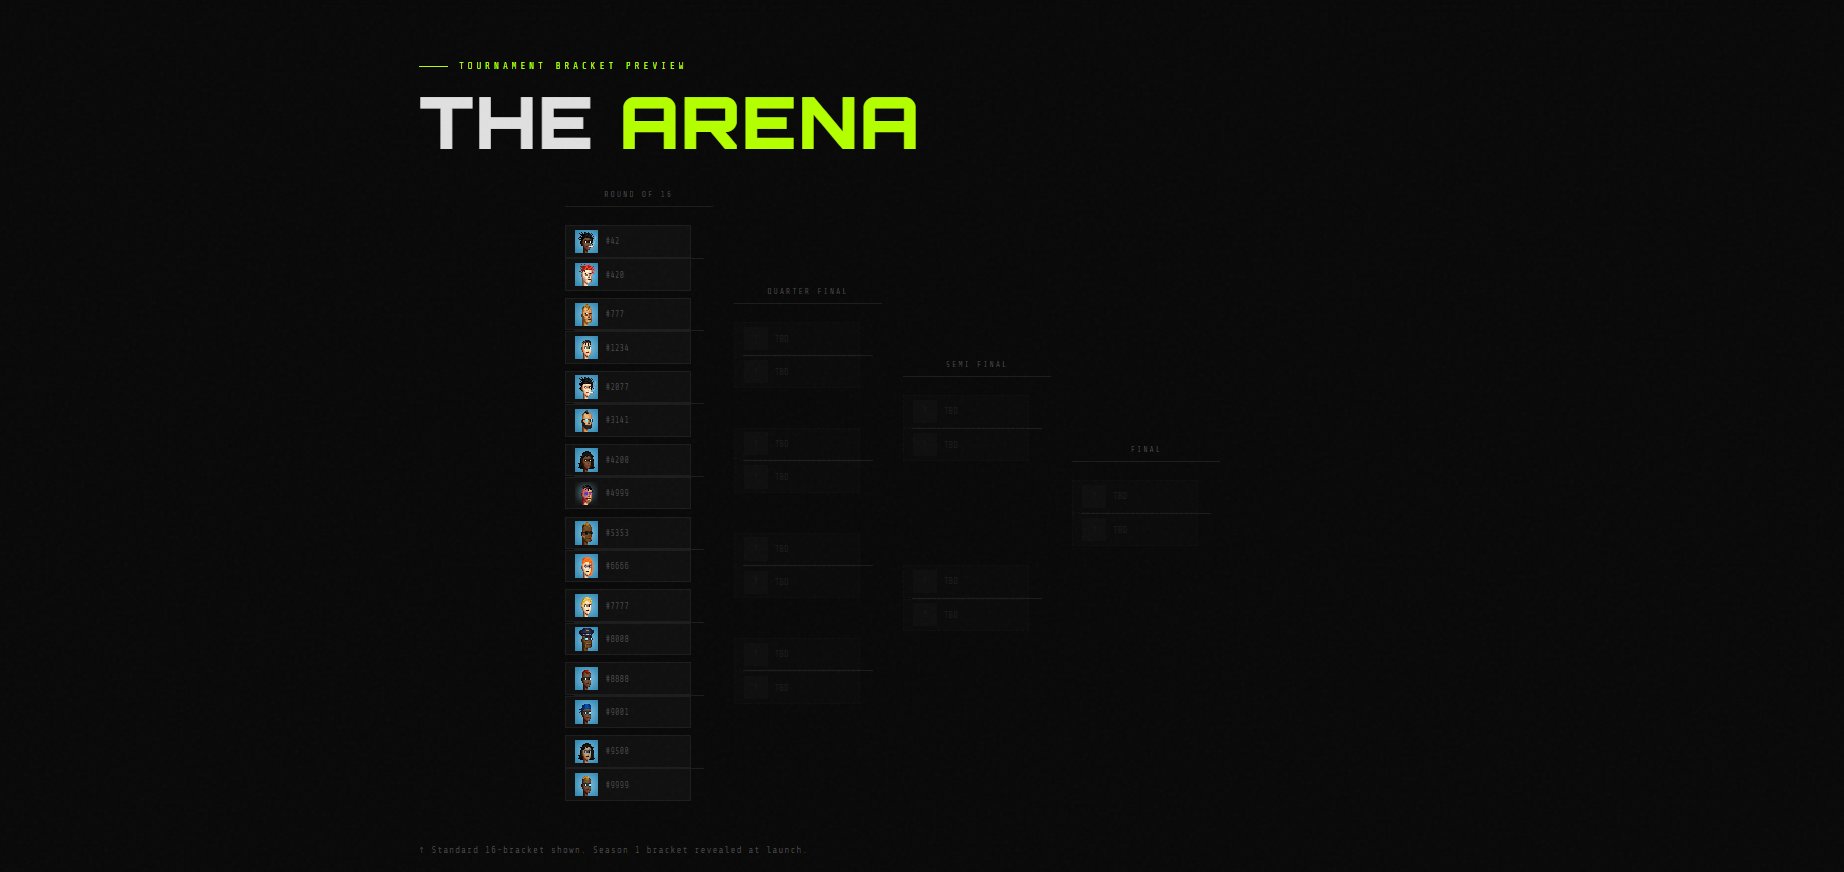
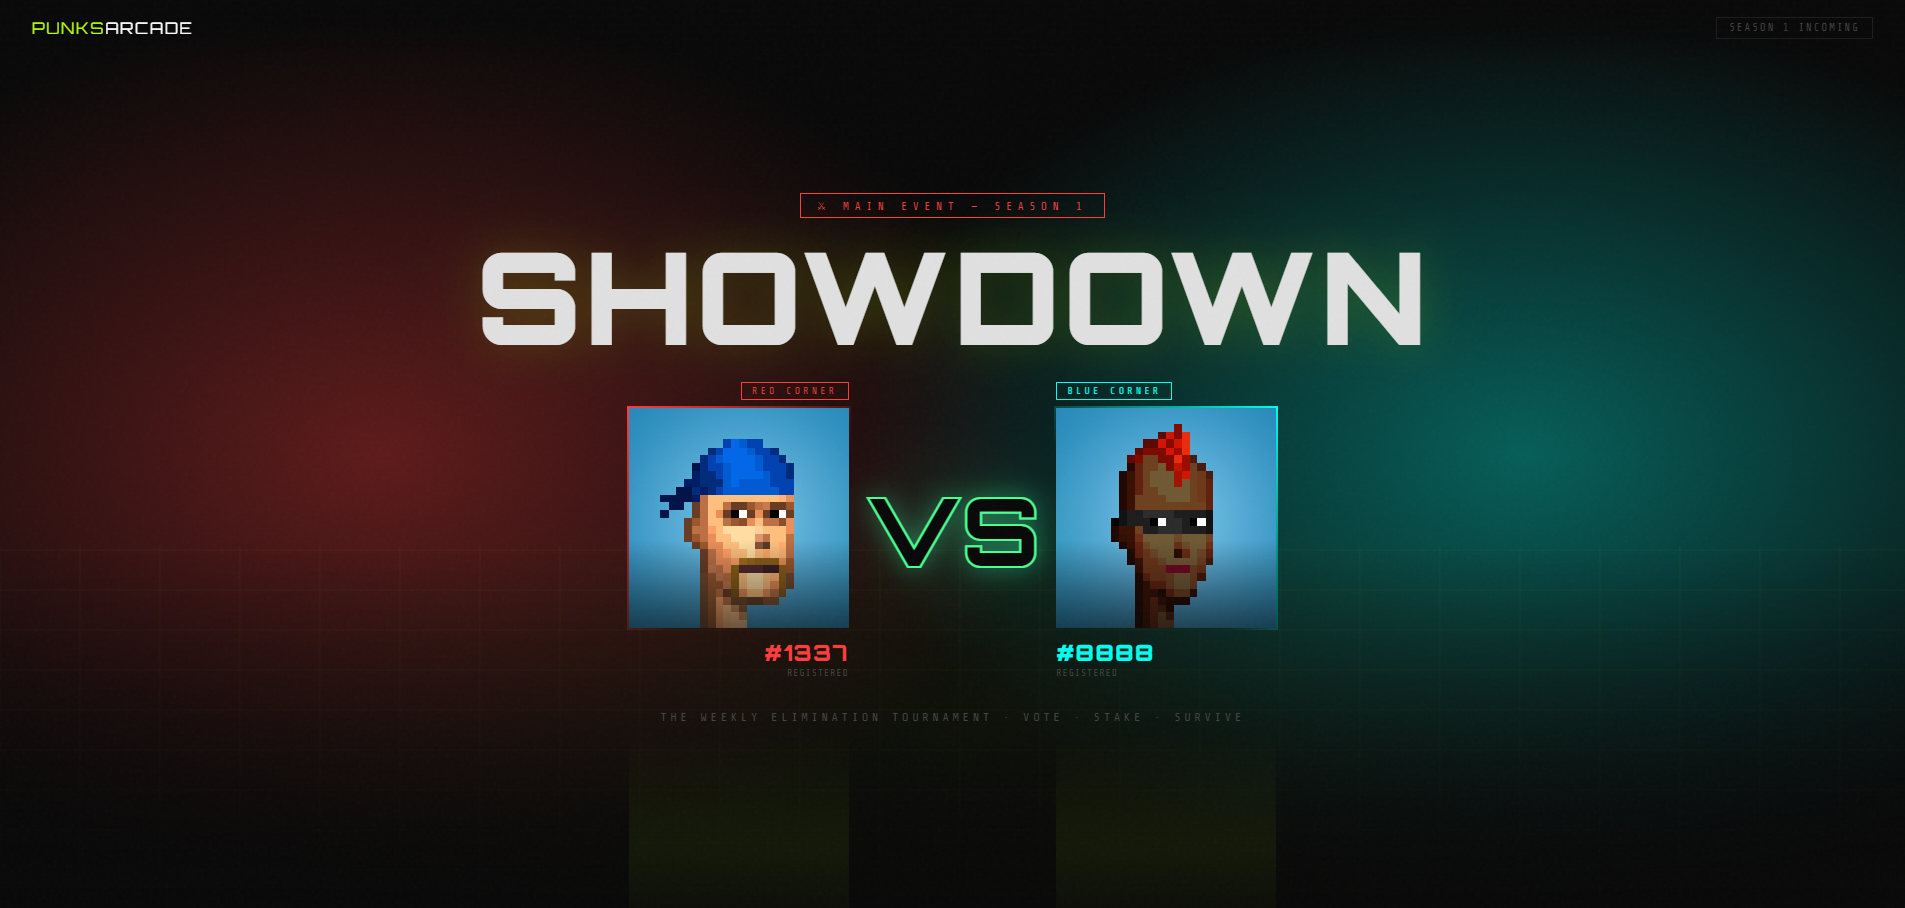
Cleaned up and fixed errors

diff --git a/index.html b/index.html
@@ -12,7 +12,7 @@
 
   <link rel="preconnect" href="https://fonts.googleapis.com" />
   <link rel="preconnect" href="https://fonts.gstatic.com" crossorigin />
-  <link href="https://fonts.googleapis.com/css2?family=Space+Grotesk:wght@300;400;500;600;700&family=Space+Mono:wght@400;700&family=Chakra+Petch:ital,wght@0,300;0,400;0,500;0,600;0,700;1,300;1,400;1,500;1,600;1,700&display=swap" rel="stylesheet" />
+  <link href="https://fonts.googleapis.com/css2?family=DM+Mono:ital,wght@0,300;0,400;0,500;1,300;1,400;1,500&family=Chakra+Petch:ital,wght@0,300;0,400;0,500;0,600;0,700;1,300;1,400;1,500;1,600;1,700&display=swap" rel="stylesheet" />
   <link rel="stylesheet" href="https://cdnjs.cloudflare.com/ajax/libs/font-awesome/6.5.0/css/all.min.css" />
   <script src="https://cdnjs.cloudflare.com/ajax/libs/gsap/3.12.5/gsap.min.js"></script>
   <script src="https://cdnjs.cloudflare.com/ajax/libs/gsap/3.12.5/ScrollTrigger.min.js"></script>
@@ -29,8 +29,8 @@
       --prime:    #EBF0F9;
       --border:   rgba(255,255,255,0.055);
       --border-g: rgba(180,255,0,0.14);
-      --fb:       'Space Grotesk', system-ui, sans-serif;
-      --fm:       'Space Mono', monospace;
+      --fb:       'Chakra Petch', system-ui, sans-serif;
+      --fm:       'DM Mono', monospace;
       --fd:       'Chakra Petch', sans-serif;
     }
 
@@ -158,10 +158,10 @@
       position: relative; z-index: 1;
     }
     .hero-grid {
-      display: grid;
-      grid-template-columns: 1.15fr 0.85fr;
-      gap: clamp(3rem,6vw,6rem);
-      align-items: center;
+        display: grid;
+        grid-template-columns: 1.1fr 0.9fr;
+        gap: clamp(1rem,2vw,2rem);
+        align-items: center;
     }
     @media (max-width: 960px) {
       .hero-grid { grid-template-columns: 1fr; }
@@ -181,14 +181,17 @@
       background: var(--green); flex-shrink: 0;
     }
 
-    h1.h-head {
-      font-family: var(--fd);
-      font-size: clamp(2.8rem, 5.5vw, 5.2rem);
-      font-weight: 800; line-height: 1.03;
-      letter-spacing: -0.035em; color: var(--prime);
-      margin-bottom: 1.75rem;
-      opacity: 0; transform: translateY(30px);
-    }
+h1.h-head {
+    font-family: var(--fd);
+    font-size: clamp(2.5rem, 4.5vw, 4.2rem);
+    font-weight: 800;
+    line-height: 1.03;
+    letter-spacing: -0.035em;
+    color: var(--prime);
+    margin-bottom: 1.75rem;
+    opacity: 0;
+    transform: translateY(30px);
+}
     h1.h-head em { font-style: normal; color: var(--green); }
 
     .h-sub {
@@ -231,10 +234,33 @@
     }
     .h-trust-item strong { color: var(--muted); font-weight: 400; }
 
+    .avail-badge {
+      display: inline-flex;
+      align-items: center;
+      gap: 0.5rem;
+      padding: 0.38rem 0.9rem;
+      border: 1px solid rgba(180,255,0,0.22);
+      background: rgba(180,255,0,0.04);
+      margin-bottom: 2.75rem;
+      width: fit-content;
+    }
+    .avail-dot {
+      width: 6px; height: 6px; border-radius: 50%;
+      background: var(--green);
+      animation: blink 2s ease-in-out infinite;
+    }
+    .avail-text {
+      font-family: var(--fm);
+      font-size: 0.58rem;
+      letter-spacing: 0.14em;
+      text-transform: uppercase;
+      color: var(--green);
+    }
+
     /* Hero visual rotator */
     .hero-right { opacity: 0; transform: translateY(20px); }
     .hero-visual {
-      position: relative; aspect-ratio: 4/3;
+      position: relative; aspect-ratio: 5/3;
       overflow: hidden; border: 1px solid var(--border);
       background: var(--surface);
     }
@@ -451,15 +477,23 @@
     }
     .cs-tag.tag-sec { border-color: rgba(180,255,0,0.15); color: rgba(180,255,0,0.6); }
 
-    .cs-img-main {
-      flex: 1; min-height: 0; overflow: hidden;
-      border: 1px solid var(--border); position: relative;
-      background: var(--bg); cursor: pointer;
-    }
-    .cs-img-main img {
-      width: 100%; height: 100%; object-fit: cover; display: block;
-      filter: brightness(0.88); transition: filter 0.3s;
-    }
+.cs-img-main {
+    /* flex: 1; */
+    min-height: 0;
+    overflow: hidden;
+    border: 1px solid var(--border);
+    position: relative;
+    background: var(--bg);
+    cursor: pointer;
+}
+.cs-img-main img {
+    width: 100%;
+    height: 100%;
+    object-fit: contain;
+    display: block;
+    filter: brightness(0.88);
+    transition: filter 0.3s;
+}
     .cs-img-main:hover img { filter: brightness(1); }
     .cs-img-overlay {
       position: absolute; inset: 0;
@@ -469,11 +503,14 @@
     .cs-img-main:hover .cs-img-overlay { opacity: 1; }
     .cs-img-overlay i { color: var(--green); font-size: 1.3rem; }
 
-    .cs-thumbs { display: grid; grid-template-columns: repeat(3,1fr); gap: 0.4rem; }
-    .cs-thumb-sm {
-      height: 66px; overflow: hidden; border: 1px solid var(--border);
-      cursor: pointer; background: var(--bg);
-    }
+    .cs-thumbs { display: grid; grid-template-columns: repeat(2,1fr); gap: 0.4rem; }
+.cs-thumb-sm {
+    height: 175px;
+    overflow: hidden;
+    border: 1px solid var(--border);
+    cursor: pointer;
+    background: var(--bg);
+}
     .cs-thumb-sm img {
       width: 100%; height: 100%; object-fit: cover; display: block;
       filter: brightness(0.72) grayscale(15%); transition: filter 0.2s;
@@ -589,15 +626,39 @@
 
     /* ─── ABOUT ──────────────────────────── */
     #about { background: var(--s2); }
-    .about-grid {
-      display: grid; grid-template-columns: 1fr 1fr;
-      gap: clamp(3rem,6vw,5.5rem); align-items: start;
-    }
+.about-grid {
+    display: grid;
+    grid-template-columns: 2fr 1fr;
+    gap: clamp(3rem,6vw,5.5rem);
+    align-items: start;
+}
     @media (max-width: 768px) { .about-grid { grid-template-columns: 1fr; } }
 
     .about-body { font-size: 0.96rem; line-height: 1.82; color: var(--muted); }
     .about-body strong { color: var(--prime); font-weight: 600; }
     .about-body p + p { margin-top: 1.1rem; }
+
+    .testimonial-block {
+      margin-top: 3rem;
+      padding: 1.5rem 1.75rem;
+      background: rgba(180,255,0,0.025);
+      border: 1px solid rgba(180,255,0,0.09);
+      border-left: 2px solid var(--green);
+      max-width: 640px;
+    }
+    .t-quote {
+      font-size: 0.95rem;
+      line-height: 1.82;
+      color: var(--prime);
+      font-style: italic;
+      margin-bottom: 0.65rem;
+    }
+    .t-attr {
+      font-family: var(--fm);
+      font-size: 0.54rem;
+      letter-spacing: 0.1em;
+      color: var(--green);
+    }
 
     .about-links { display: flex; gap: 0.5rem; flex-wrap: wrap; margin-top: 1.75rem; }
     .about-link {
@@ -749,7 +810,7 @@
     <a href="#services"  class="hide-sm">Services</a>
     <a href="#resources" class="hide-xs">Resources</a>
     <a href="#contact">Contact</a>
-    <a href="https://calendly.com/chris-dbuilder/30min" target="_blank" rel="noopener" class="nav-cta">Book a Call</a>
+    <a href="https://calendly.com/chrisnwasike/30min" target="_blank" rel="noopener" class="nav-cta">Book a Call</a>
   </div>
 </nav>
 
@@ -769,14 +830,13 @@
 
           <h1 class="h-head">
             After all the hype,<br/>
-            <em>your community still<br/>
+            <em>your community still
             needs infrastructure.</em>
           </h1>
 
           <p class="h-sub">
             Your web3 community needs infrastructure to sustain it after the initial excitement fades. 
-            I design and build the systems that keep communities active, engaged, and 
-            economically healthy long after the mint spike fades.
+            Let's create the systems that'll keep it active long after the mint and airdrop.
           </p>
 
           <div class="h-actions">
@@ -784,9 +844,14 @@
               View Case Studies
               <i class="fa-solid fa-arrow-right fa-sm"></i>
             </a>
-            <a href="https://calendly.com/chris-dbuilder/30min" target="_blank" rel="noopener" class="btn-g">
+            <a href="https://calendly.com/chrisnwasike/30min" target="_blank" rel="noopener" class="btn-g">
               Book a Strategy Call
             </a>
+          </div>
+
+          <div class="avail-badge">
+            <span class="avail-dot"></span>
+            <span class="avail-text">Available for hire - Q2 2026</span>
           </div>
 
           <div class="h-trust">
@@ -898,7 +963,7 @@
                 <span class="cs-idx">01 / 09</span>
                 <span class="cs-badge badge-build">Alpha · Aug 2026</span>
               </div>
-              <h3 class="cs-title">PunkHam<br/>Mayhem S1</h3>
+              <h3 class="cs-title">PunkHam Mayhem S1</h3>
               <p class="cs-type">Participation Economy · Season System · Browser-Native · Base</p>
               <div class="cs-ps-row">
                 <div class="cs-ps-block">
@@ -948,7 +1013,7 @@
                 <span class="cs-idx">02 / 09</span>
                 <span class="cs-badge badge-live">Live</span>
               </div>
-              <h3 class="cs-title">Punk<br/>Arcade</h3>
+              <h3 class="cs-title">Punk Arcade</h3>
               <p class="cs-type">Automated Game Platform · Zero-Admin Operations · Two Live Games · Base</p>
               <div class="cs-ps-row">
                 <div class="cs-ps-block">
@@ -998,7 +1063,7 @@
                 <span class="cs-idx">03 / 09</span>
                 <span class="cs-badge badge-live">Live · Beta</span>
               </div>
-              <h3 class="cs-title">BTFD<br/>Rabbits</h3>
+              <h3 class="cs-title">BTFD Rabbits</h3>
               <p class="cs-type">Holder Retention Platform · Closed Currency Economy · Anti-Churn Mechanics · Ethereum</p>
               <div class="cs-ps-row">
                 <div class="cs-ps-block">
@@ -1047,7 +1112,7 @@
                 <span class="cs-idx">04 / 09</span>
                 <span class="cs-badge badge-live">Live</span>
               </div>
-              <h3 class="cs-title">PunkLocker<br/>+ Punk Power</h3>
+              <h3 class="cs-title">PunkLocker + Punk Power</h3>
               <p class="cs-type">Long-Term Loyalty System · Compounding Commitment Mechanics · Base Blockchain</p>
               <div class="cs-ps-row">
                 <div class="cs-ps-block">
@@ -1074,6 +1139,12 @@
                 <span class="cs-tag">On-chain Bridge</span>
                 <span class="cs-tag">Non-transferable Rewards</span>
                 <span class="cs-tag">Base Blockchain</span>
+                <a href="https://basescan.org/address/[INSERT_CONTRACT_ADDRESS]"
+                   target="_blank" rel="noopener"
+                   class="cs-tag tag-sec"
+                   style="text-decoration:none; cursor:pointer;">
+                  ↗ verify on-chain
+                </a>
               </div>
             </div>
             <div class="cs-right">
@@ -1096,7 +1167,7 @@
                 <span class="cs-idx">05 / 09</span>
                 <span class="cs-badge badge-live">Live</span>
               </div>
-              <h3 class="cs-title">$JUNK<br/>Economy</h3>
+              <h3 class="cs-title">$JUNK Economy</h3>
               <p class="cs-type">Deflationary Community Currency · Fixed Supply · Dual-Layer Architecture · Base</p>
               <div class="cs-ps-row">
                 <div class="cs-ps-block">
@@ -1145,7 +1216,7 @@
                 <span class="cs-idx">06 / 09</span>
                 <span class="cs-badge badge-live">Live</span>
               </div>
-              <h3 class="cs-title">The Secret<br/>World</h3>
+              <h3 class="cs-title">The Secret World</h3>
               <p class="cs-type">Persistent Idle World · Three-Tier Economy · Community Governance · Ethereum</p>
               <div class="cs-ps-row">
                 <div class="cs-ps-block">
@@ -1194,7 +1265,7 @@
                 <span class="cs-idx">07 / 09</span>
                 <span class="cs-badge badge-build">In Build</span>
               </div>
-              <h3 class="cs-title">Punk<br/>Vault</h3>
+              <h3 class="cs-title">Punk Vault</h3>
               <p class="cs-type">Community Intelligence Platform · Holder Behaviour Analytics · Multi-Chain</p>
               <div class="cs-ps-row">
                 <div class="cs-ps-block">
@@ -1242,7 +1313,7 @@
                 <span class="cs-idx">08 / 09</span>
                 <span class="cs-badge badge-ship">Shipped</span>
               </div>
-              <h3 class="cs-title">Modular NFT<br/>Gaming System</h3>
+              <h3 class="cs-title">Modular NFT Gaming System</h3>
               <p class="cs-type">Extensible Game Contract Framework · Add Features Without Redeployment</p>
               <div class="cs-ps-row">
                 <div class="cs-ps-block">
@@ -1291,7 +1362,7 @@
                 <span class="cs-idx">09 / 09</span>
                 <span class="cs-badge badge-ship">Shipped</span>
               </div>
-              <h3 class="cs-title">Decentralised<br/>NFT Marketplace</h3>
+              <h3 class="cs-title">Decentralised NFT Marketplace</h3>
               <p class="cs-type">Trustless Trading Infrastructure · Contract-Enforced Creator Royalties · 10 Blockchains</p>
               <div class="cs-ps-row">
                 <div class="cs-ps-block">
@@ -1452,7 +1523,7 @@
           <div class="res-file">PDF · Playbook</div>
           <div class="res-cat">03 · Implementation Playbook</div>
           <h3 class="res-title">The Engagement Loop Playbook</h3>
-          <p class="res-desc">The exact system architecture behind a Web3 community that retains 70%+ of holders past 90 days. The mechanics, the sequencing, the economy design decisions - documented as an implementable playbook, not a theory.</p>
+          <p class="res-desc">The exact system architecture behind a Web3 community. Across system-backed ecosystems, 70%+ holder retention past Day 90 vs 16% industry baseline. The mechanics, the sequencing, the economy design decisions - documented as an implementable playbook, not a theory.</p>
           <a href="docs/03_chrisdbuilder_playbook.pdf" class="res-cta" download>
             Download PDF <i class="fa-solid fa-arrow-down-to-line fa-sm"></i>
           </a>
@@ -1468,7 +1539,7 @@
       <div class="about-grid">
 
         <div>
-          <p class="s-eye r-lft">About</p>
+          <p class="s-eye r-lft">About Chris</p>
           <h2 class="s-head r-up" style="margin-bottom:1.75rem;">
             Solo Founder.<br/>
             Systems Architect.<br/>
@@ -1524,6 +1595,12 @@
         </div>
 
       </div>
+
+      <div class="testimonial-block r-up">
+        <div class="t-quote">"Chris owns the full architecture stack - smart contracts, backend, automation, and economy design - solo. The system ran itself."</div>
+        <div class="t-attr">- Didi,  (Founder) BTFDRabbits · Ethereum Ecosystem</div>
+      </div>
+
     </div>
   </section>
 
@@ -1546,7 +1623,7 @@
             Email Me Directly
             <i class="fa-solid fa-arrow-right fa-sm"></i>
           </a>
-          <a href="https://calendly.com/chris-dbuilder/30min" class="btn-g" target="_blank" rel="noopener">
+          <a href="https://calendly.com/chrisnwasike/30min" class="btn-g" target="_blank" rel="noopener">
             Book a Call
           </a>
         </div>
@@ -1578,7 +1655,7 @@
           <div class="c-icon"><i class="fa-solid fa-calendar"></i></div>
           <div>
             <div class="c-lbl">Schedule</div>
-            <div class="c-val"><a href="https://calendly.com/chris-dbuilder/30min" target="_blank" rel="noopener">calendly.com/chris-dbuilder</a></div>
+            <div class="c-val"><a href="https://calendly.com/chrisnwasike/30min" target="_blank" rel="noopener">calendly.com/chris-dbuilder</a></div>
           </div>
         </div>
       </div>
